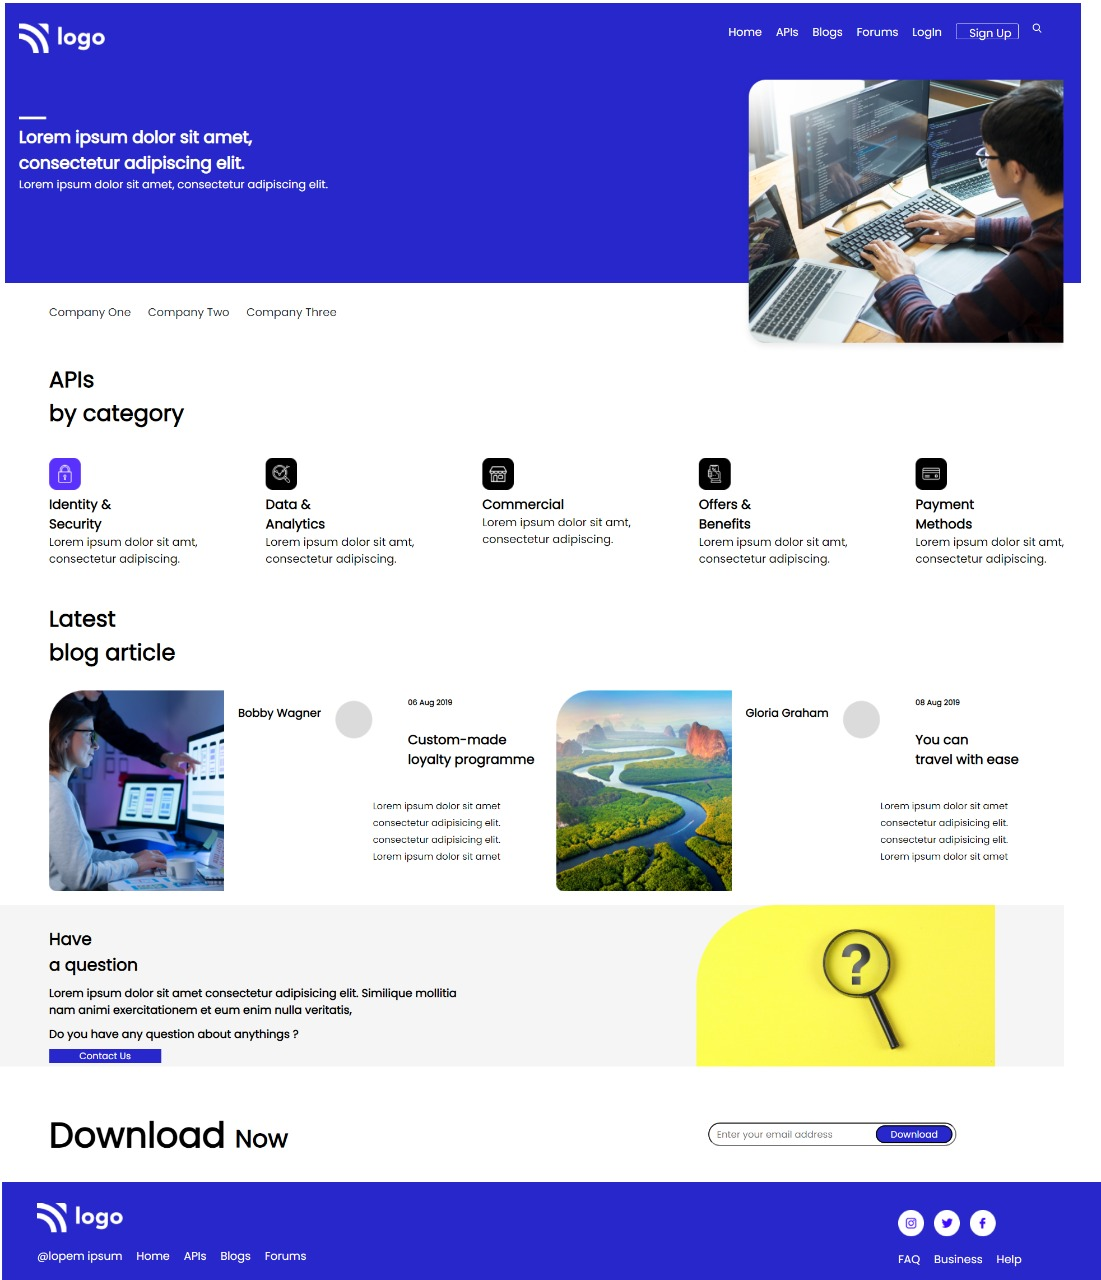
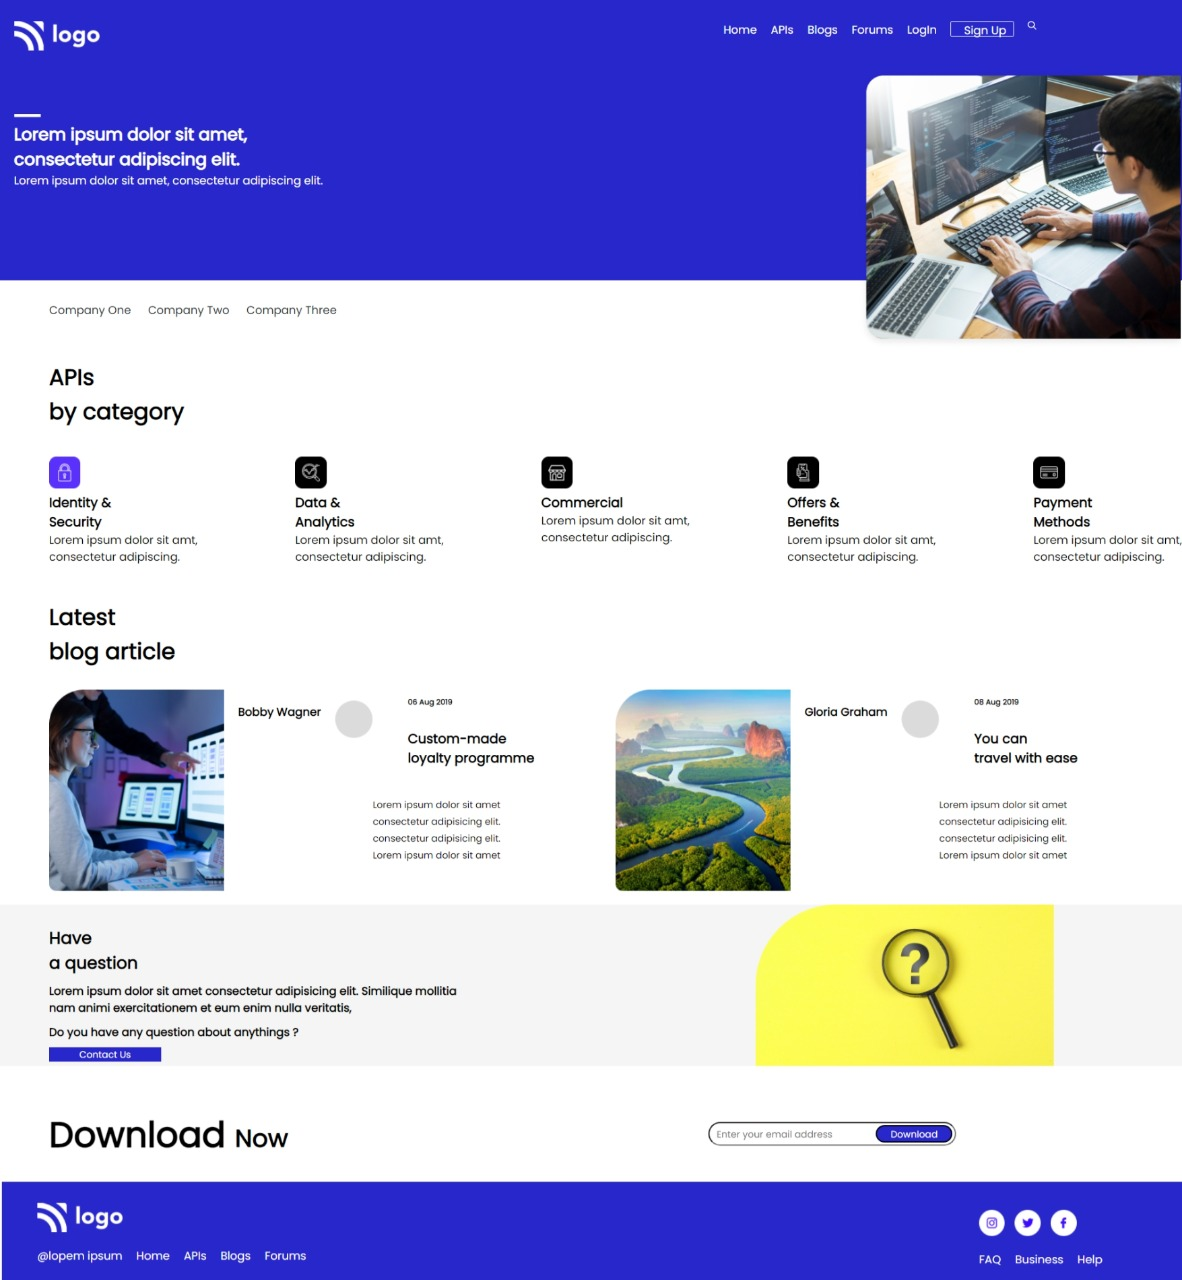
addinge a screehot of my page

diff --git a/style.css b/style.css
@@ -12,13 +12,9 @@ header{
   height: 400px;
   width: 100%;
   background-color: #2827CC;
-  margin: 7px 7px;
-  
 }
 nav{
   height: 100px;
-  width: 100vw;
-  
   display: flex;
  
 }
@@ -52,7 +48,7 @@ nav{
   color: #ffffff;
 }
 .header-image{
-  margin-left: 1050px;
+  margin-left: 1225px;
   margin-top: -170px;
 }
 .companies{

diff --git a/readme.md b/readme.md
@@ -1,4 +1,4 @@
-# Project-09-  
+# Project-09-  Developer Landing Page
  ## Hey there ,  I am Amarjeet 
  I have built a template of HTML and CSS project using my core css skills 
  
@@ -7,9 +7,8 @@
  ![](https://img.shields.io/badge/CSS-3-blue)
 
  My Live Deployed Website Link:- [Click here !](https://app.netlify.com/sites/project-04-a-small-web-page/overview)
-
- 
- ![](./images/web-page.jpg)
+  
+![](./images/web-page)
 
  ## For making this project I spend almost 8 hours.
 
